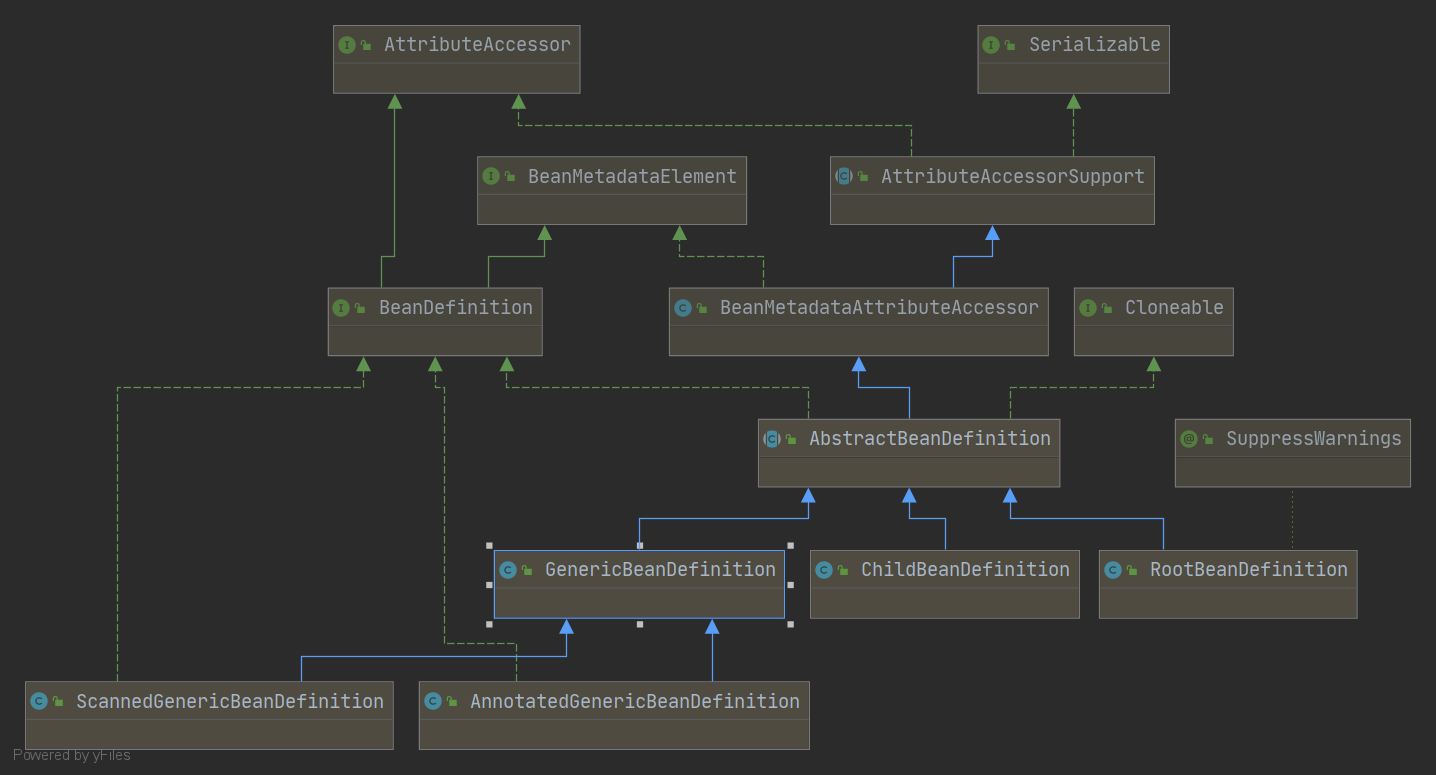
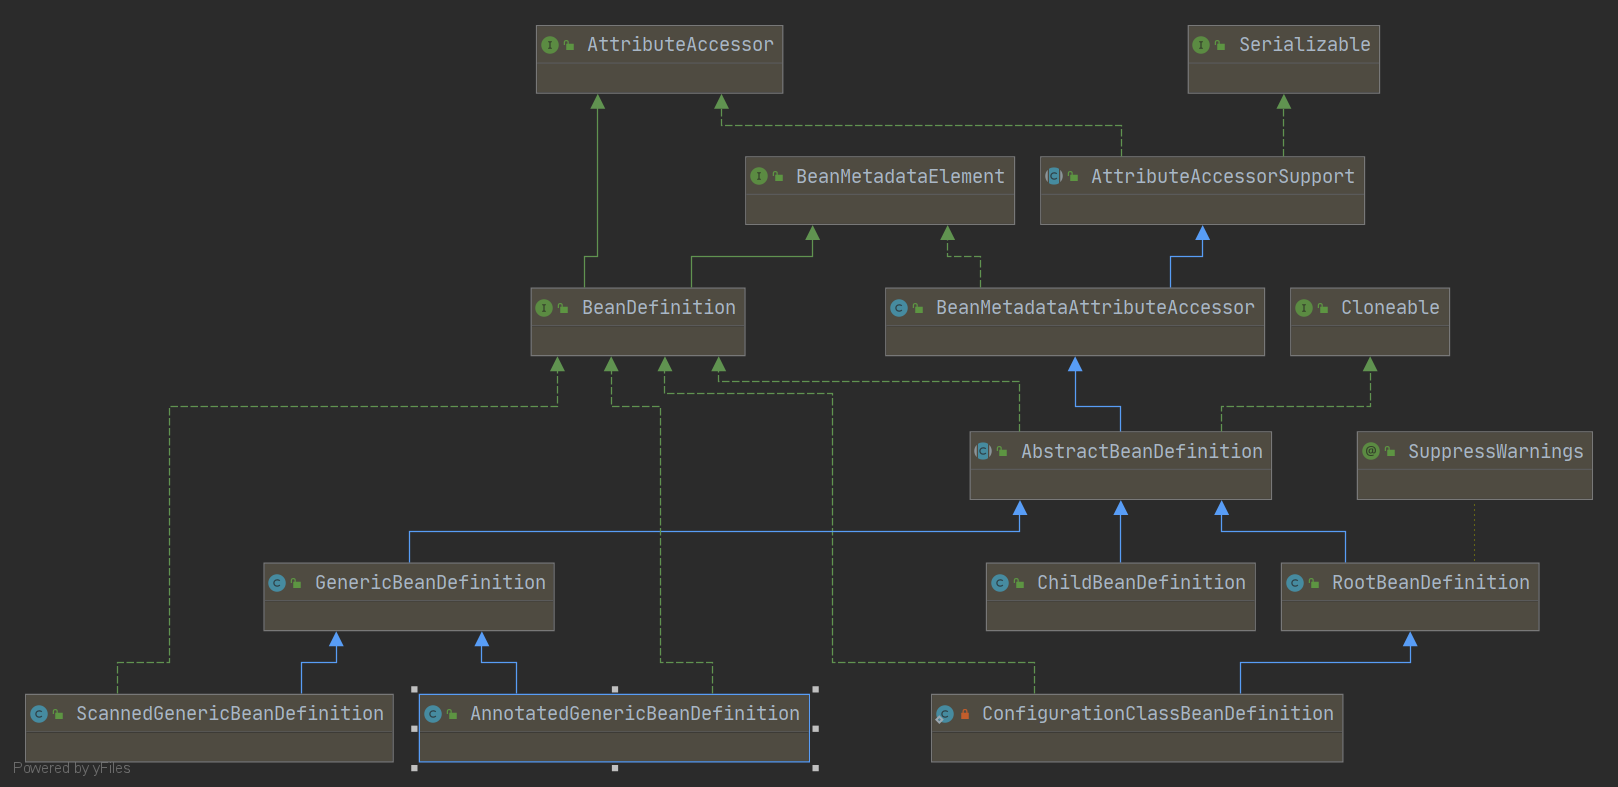
增加beanDefinition类图

diff --git a/spring-sourcecode-research/studynode/beanDefinition.md b/spring-sourcecode-research/studynode/beanDefinition.md
@@ -36,4 +36,5 @@ RootBeanDefinition 只能做父级beanDefinition
 ChildBeanDefinition 只能做子级beanDefinition  
 GenericBeanDefinition可以完全替代ChildBeanDefinition但是不能替代RootBeanDefinition因为merge的时候返回的是RootBeanDefinition（AbstractBeanFactory.getMergedBeanDefinition，这个方法进行merge）         
 所有在xml中定义的bean都是GenericBeanDefinition    
-AnnotatedGenericBeanDefinition 这个类主要是解析我们定义的配置类AppConfig.class,换句话说是被@Configuration注释的类，ScannedGenericBeanDefinition 是解析有@Component只是的bean
+AnnotatedGenericBeanDefinition 这个类主要是解析我们定义的配置类AppConfig.class,换句话说是被@Configuration注释的类，ScannedGenericBeanDefinition 是解析有@Component注释的bean  
+ ![beanDefinition](./image/RootBeanDefinition.png)   
